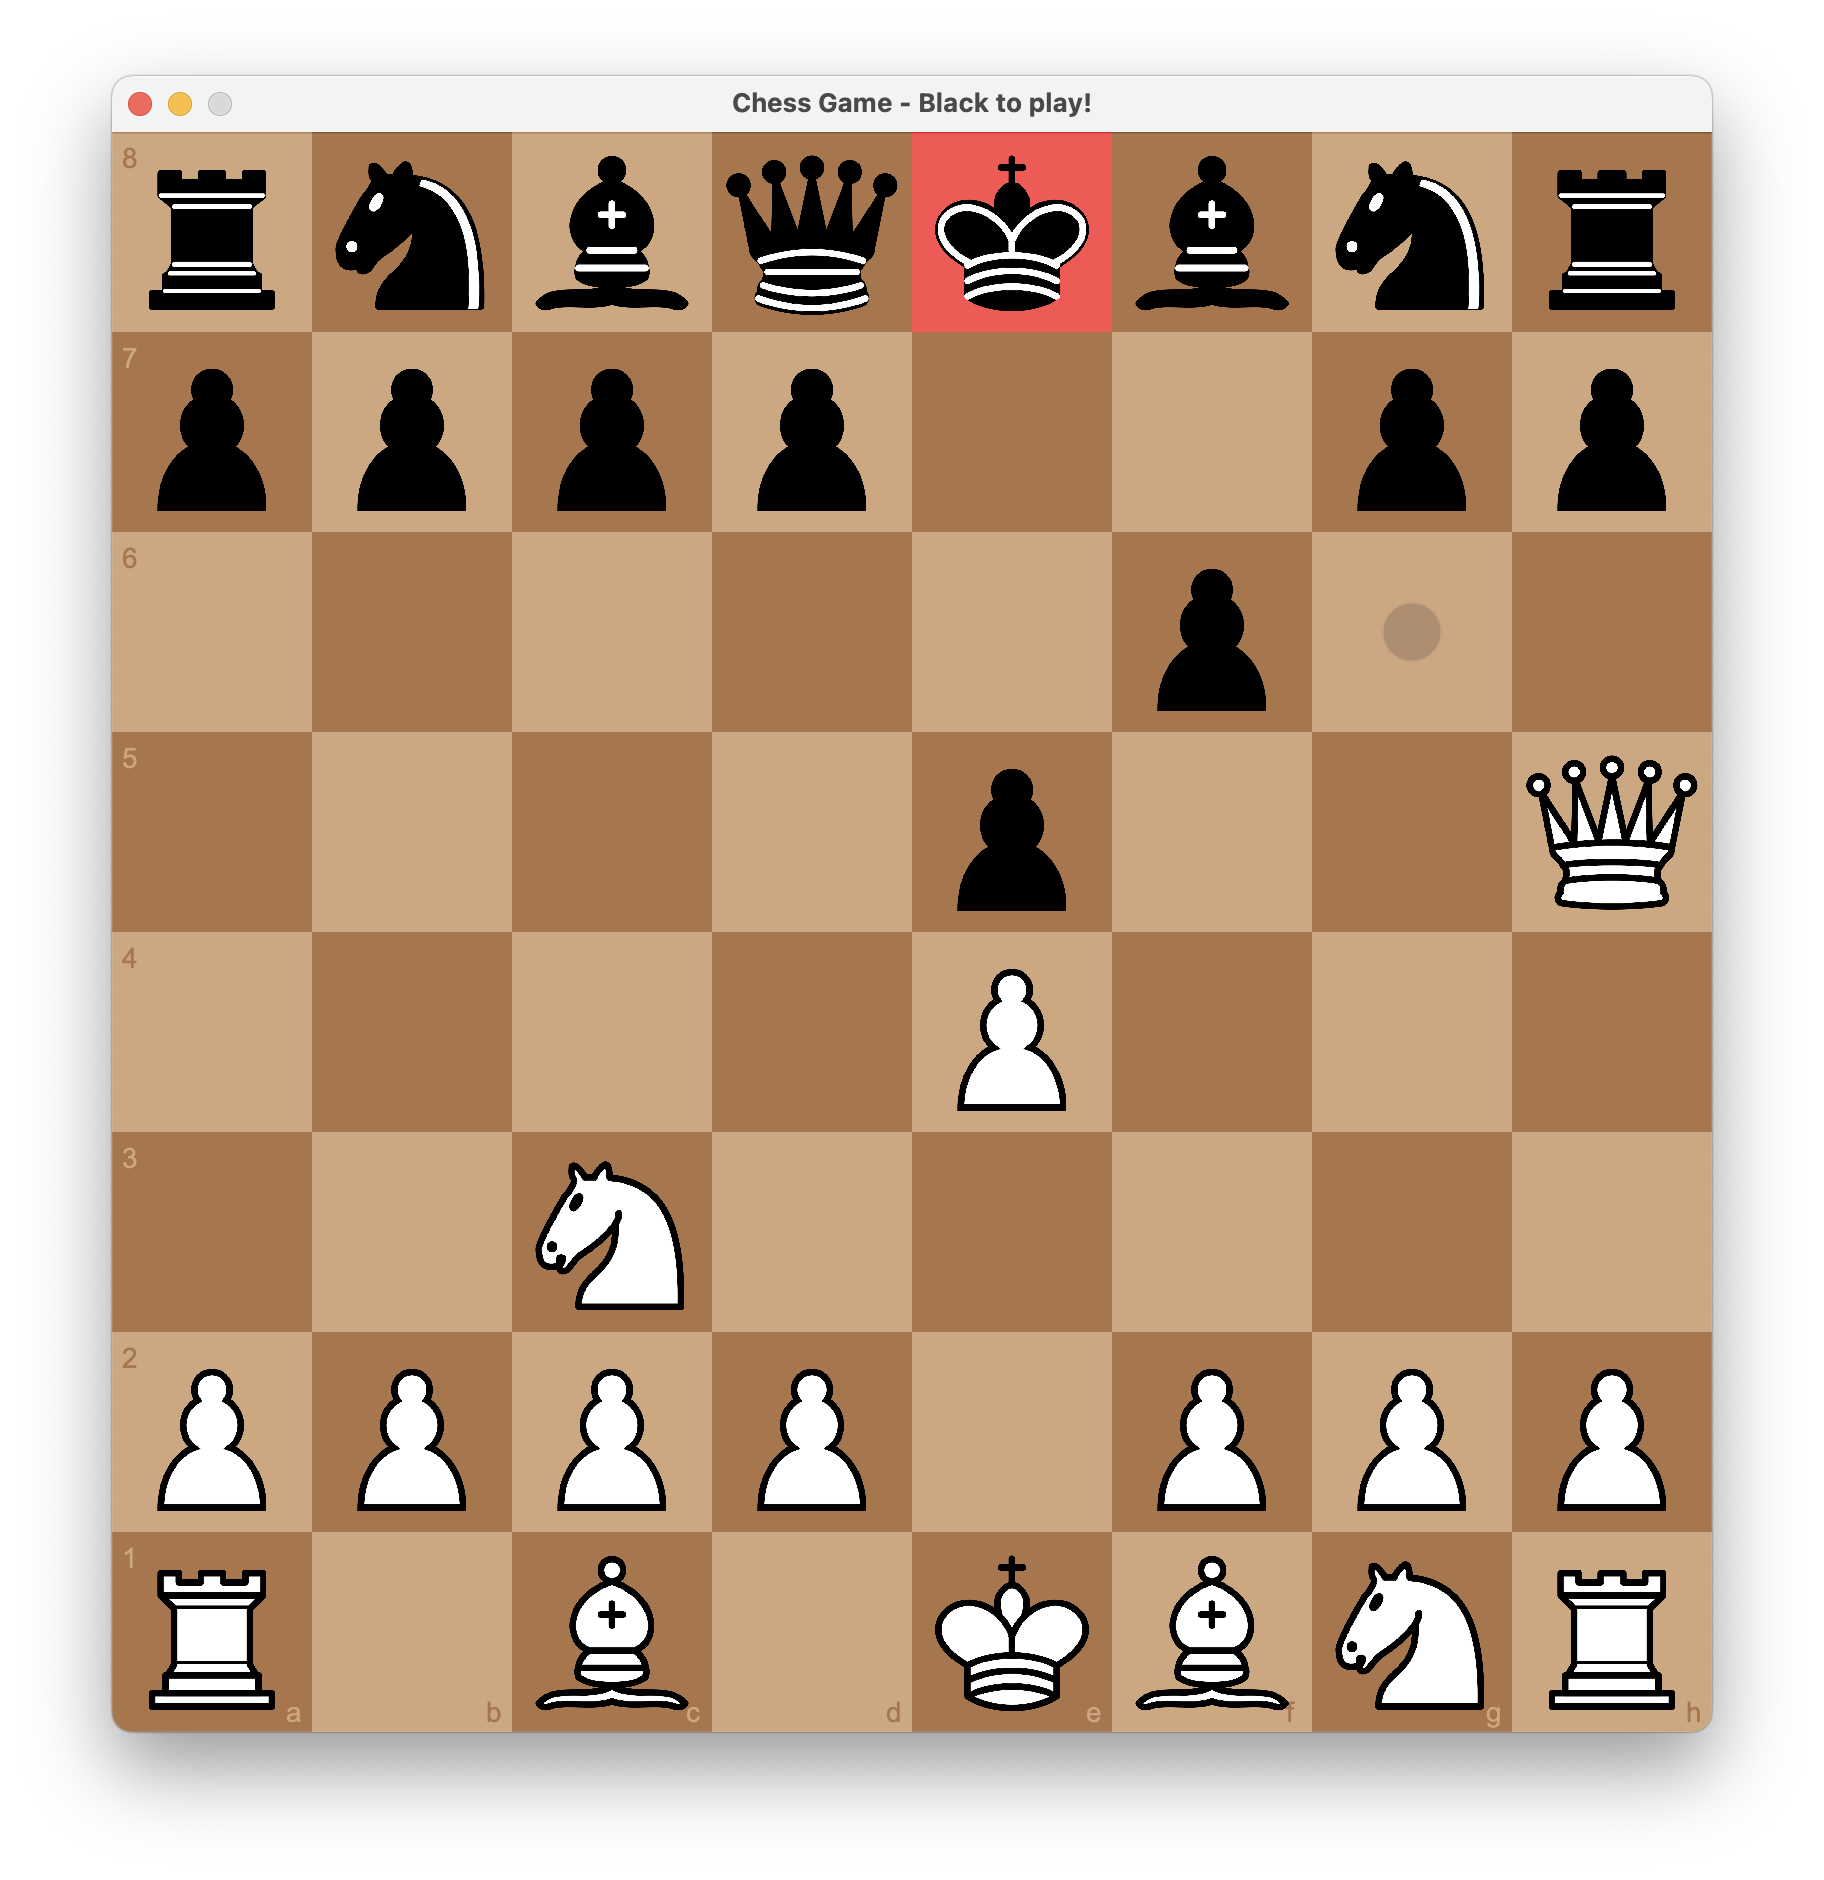
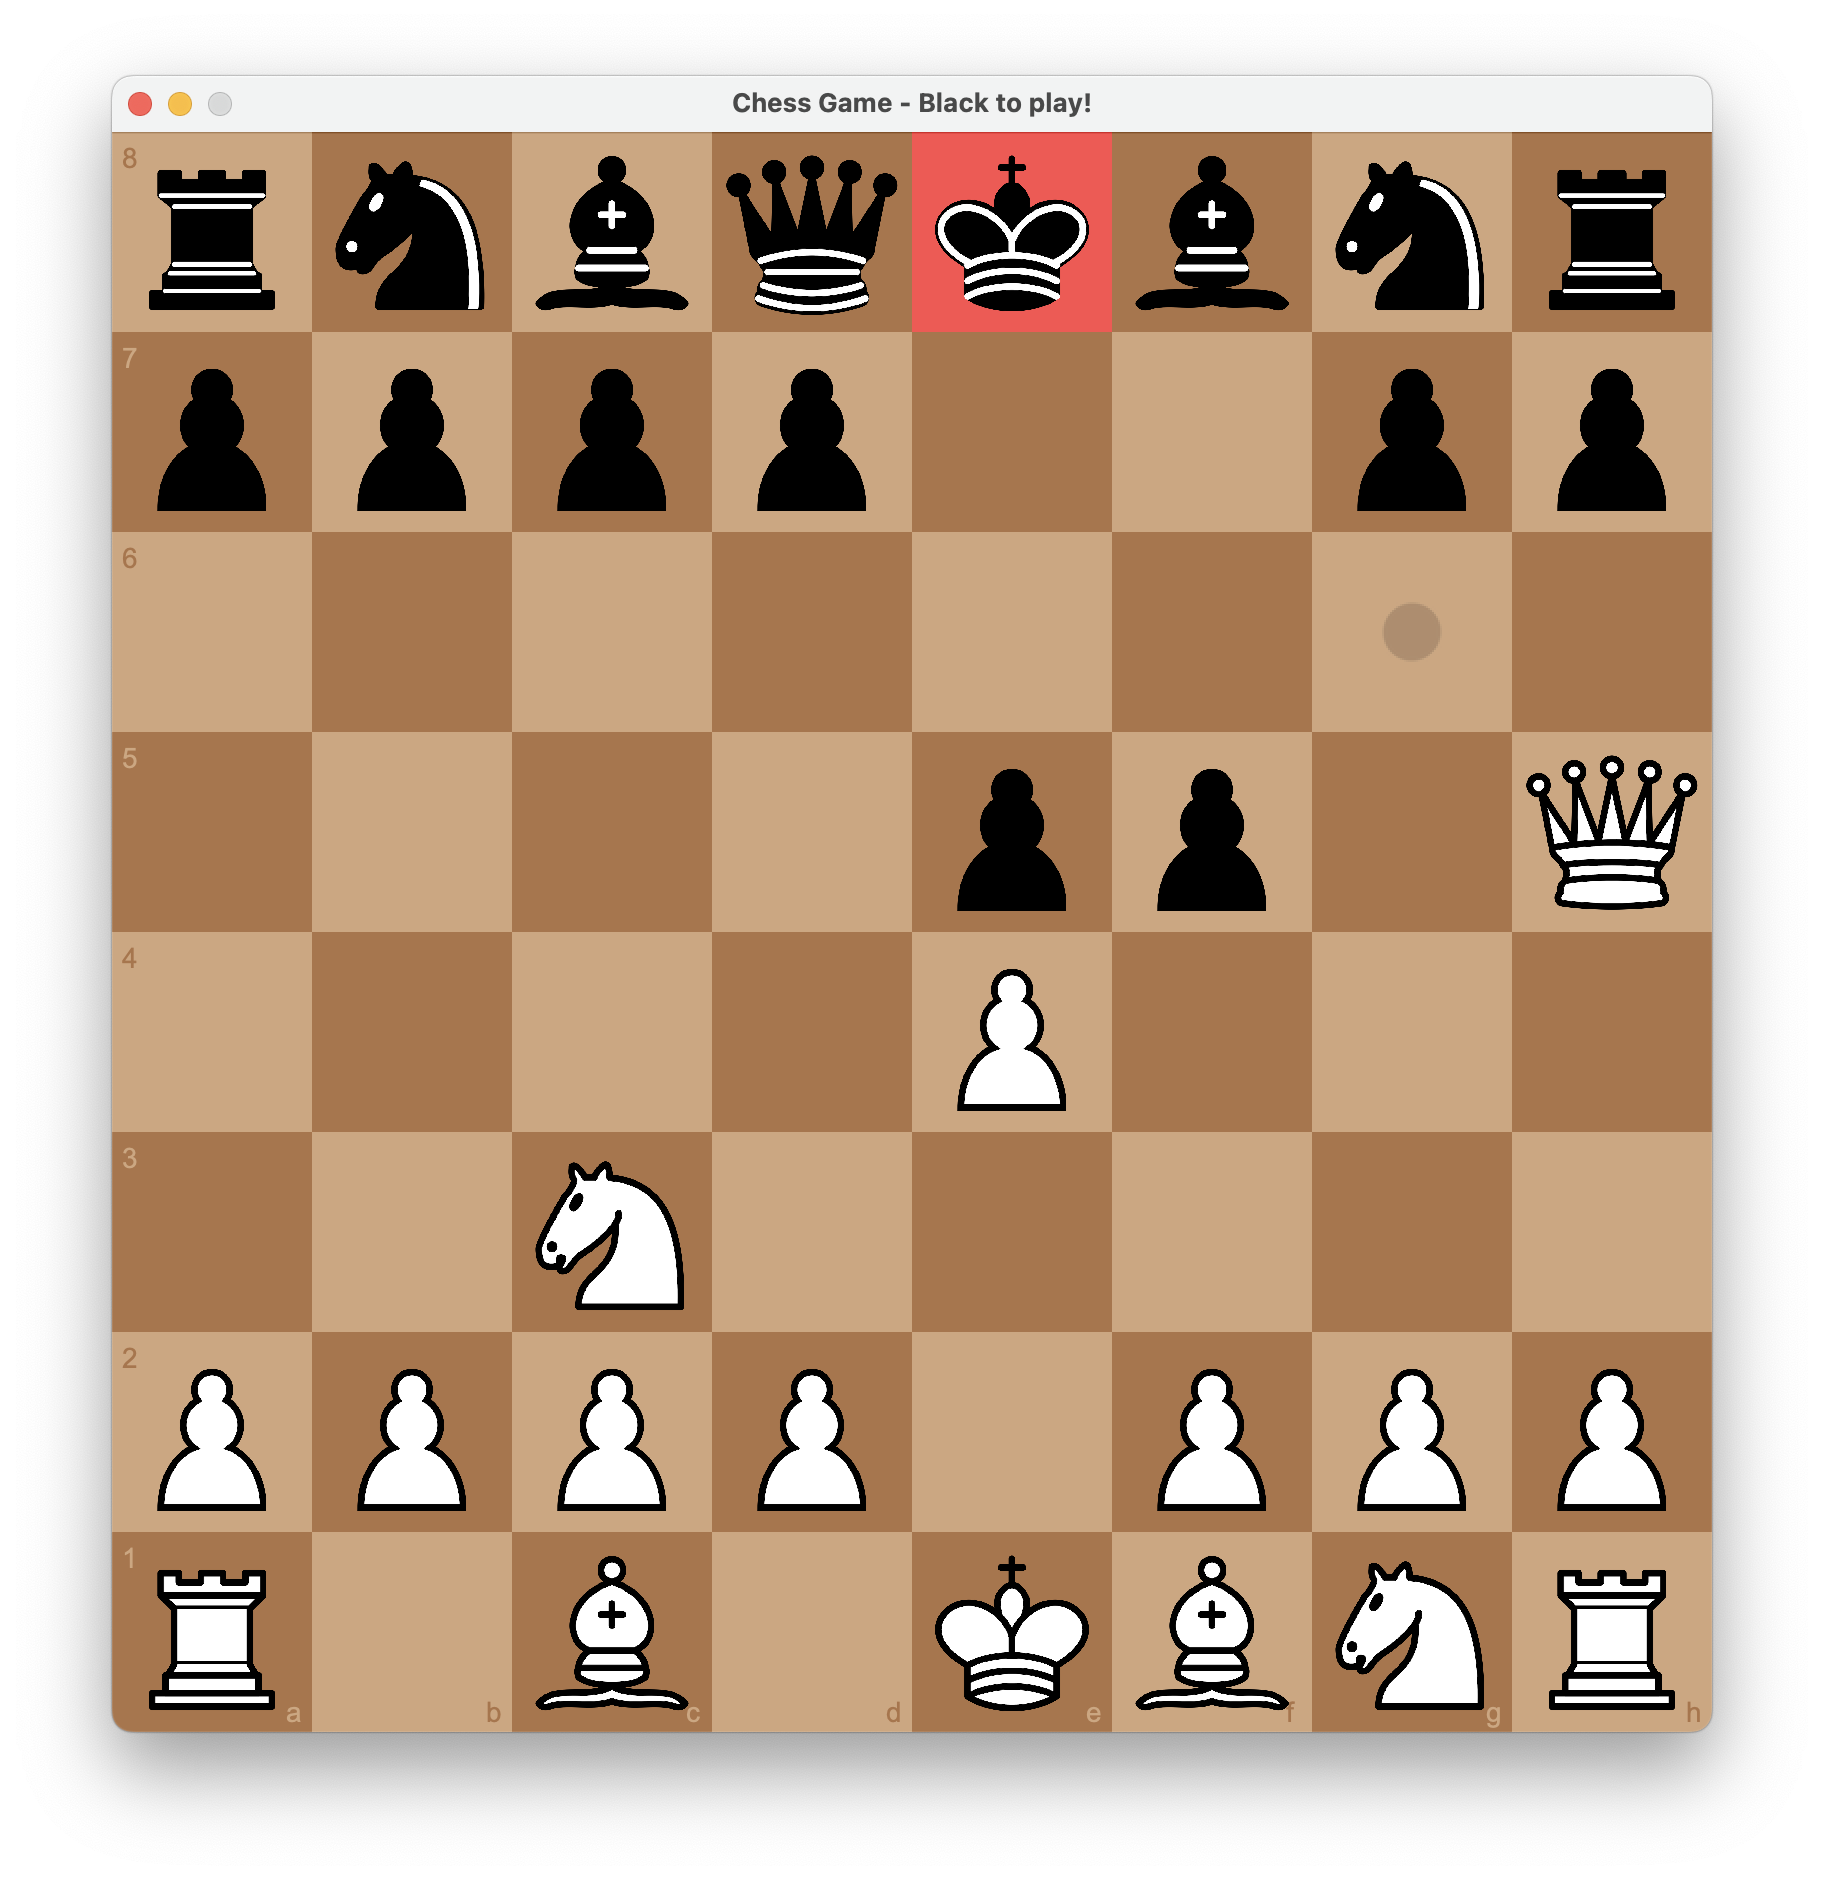
Legal move restriction: Re-capture

Changed region(s): [[0.625, 0.3085, 0.7188, 0.4936]]

diff --git a/src/main/GameWindow.java b/src/main/GameWindow.java
@@ -82,6 +82,13 @@ public class GameWindow extends JPanel implements Runnable {
 				getInCheckKing().drawIndicators(graphics2d,
 						calculateInterposableTiles(getSelectedPiece().getMoveableTiles()));
 			}
+			if (getSelectedPiece().getCaptureableTiles() != null) {
+				addHighlightedTiles(calculateCaptureableCheckingTile(
+						getSelectedPiece().getCaptureableTiles()));
+				getSelectedPiece().highlightCaptureableTiles(graphics2d,
+						calculateCaptureableCheckingTile(
+								getSelectedPiece().getCaptureableTiles()));
+			}
 		}
 
 	}
@@ -160,6 +167,17 @@ public class GameWindow extends JPanel implements Runnable {
 					if (getSelectedPiece().getMoveableTiles().contains(getSelectedTile())
 							&& getCheckingTiles().contains(getSelectedTile())) {
 						movePiece(getSelectedTile(), getSelectedPiece());
+						getInCheckKing().setIsKingInCheck(false);
+						setInCheckKing(null);
+						setCheckingPiece(null);
+						setCheckingTiles(null);
+						endTurn();
+					}
+				}
+				if (getSelectedPiece() != null && getSelectedPiece().getCaptureableTiles() != null) {
+					if (getSelectedPiece().getCaptureableTiles().contains(getSelectedTile())
+							&& getSelectedTile().getPiece() == getCheckingPiece()) {
+						capturePiece(getSelectedTile(), getSelectedPiece());
 						getInCheckKing().setIsKingInCheck(false);
 						setInCheckKing(null);
 						setCheckingPiece(null);
@@ -249,6 +267,17 @@ public class GameWindow extends JPanel implements Runnable {
 				}
 			}
 		}
+	}
+
+	private ArrayList<Tile> calculateCaptureableCheckingTile(ArrayList<Tile> captureableTiles) {
+		ArrayList<Tile> captureTile = new ArrayList<Tile>();
+		for (Tile tile : captureableTiles) {
+			if (tile.getPiece() == getCheckingPiece()) {
+				captureTile.add(tile);
+				return captureTile;
+			}
+		}
+		return null;
 	}
 
 	private ArrayList<Tile> calculateCheckingTiles() {

diff --git a/README.md b/README.md
@@ -23,12 +23,13 @@ Fully functional chess game written in Java with Spring/AWT GUI & official rule 
 - [x] Castling Mechanic
 - [x] En Passant Mechanic
 - [x] Promotion Panel
-- [ ] Pinned Piece Detection
 - [x] King in Check Hightlight
 - [x] Legal Move Restriction: King Movement
 - [x] Legal Move Restriction: Interposable Piece
-- [ ] Legal Move Restriction: Checking Piece Capturable
+- [x] Legal Move Restriction: Re-capturable Checking Piece
 - [ ] Checkmate Detection
+- [ ] Castle Restriction: Out, Through or Into Check
+- [ ] Pinned Piece Detection
 - [ ] Draw by Stalemate
 - [ ] Draw by Repetition
 - [ ] Draw by Insufficient Material
